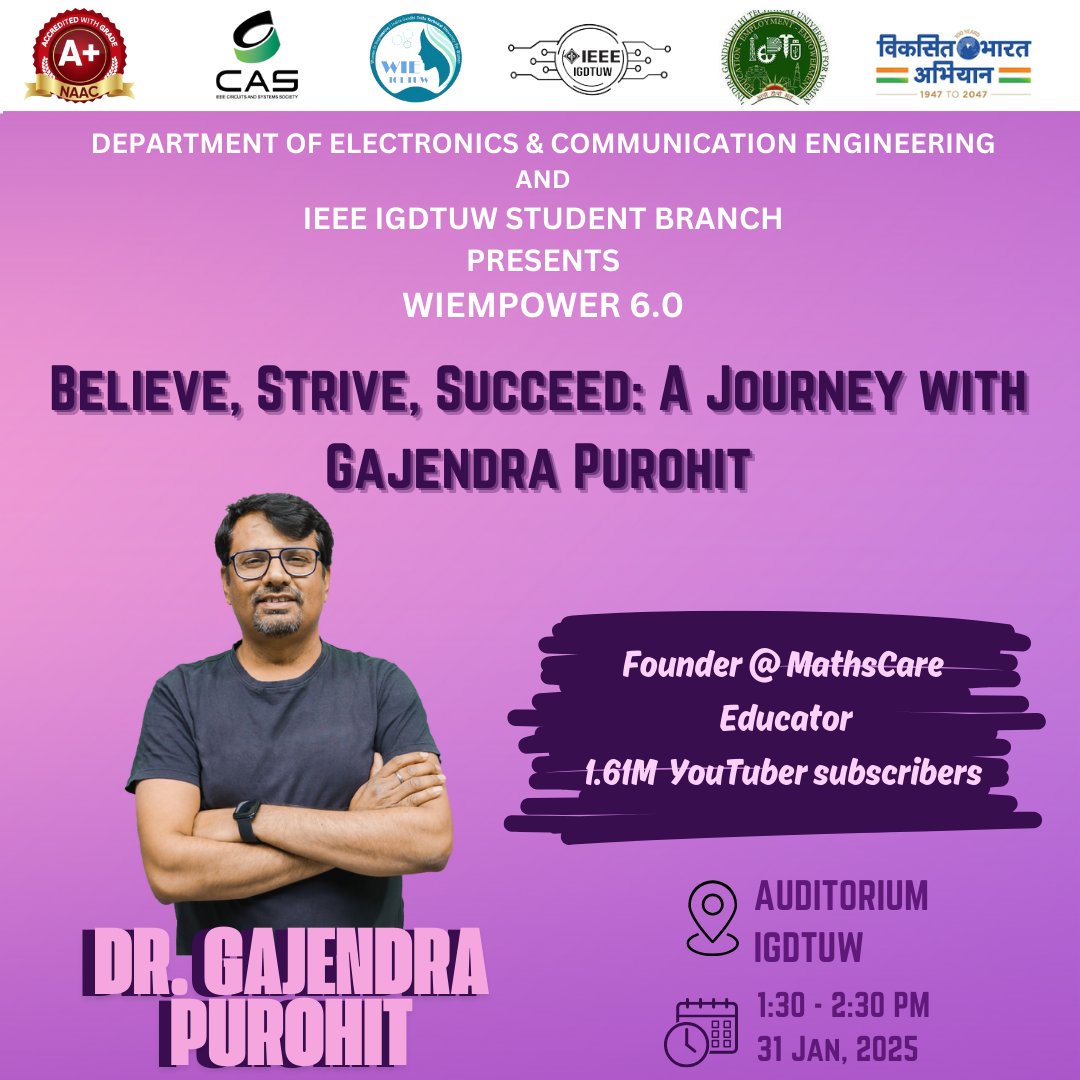
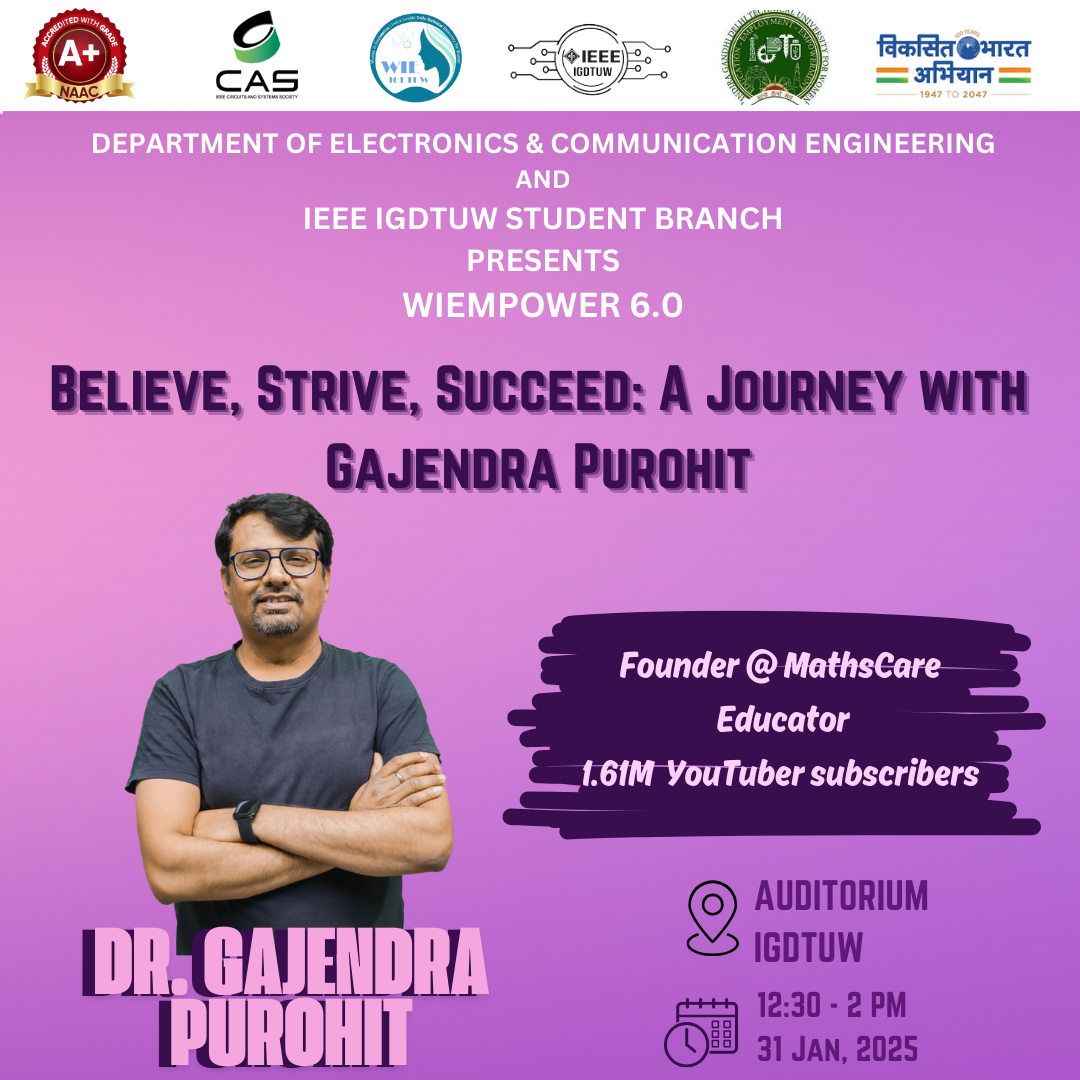
added event

Changed region(s): [[0.4583, 0.5806, 0.9778, 0.7944], [0.7028, 0.9167, 0.8861, 0.9472]]

diff --git a/src/constants/index.ts b/src/constants/index.ts
@@ -436,17 +436,17 @@ export const SPEAKERS = [
     },
   },
 
-  // {
-  //   name: 'Dr.Gajendra Purohit',
-  //   designation: 'Founder, MathsCare | Educator for IIT-JAM, CSIR NET GATE Motivational & TEDx Speaker | YouTuber (1.6M+ Subscribers) Author of 6 Best-Selling Books | Mathematics Expert with 20+ Years of Teaching Experience',
-  //   description: 'Dr. Gajendra Purohit (GP Sir), Founder of MathsCare, is a renowned Educator, TEDx Speaker, and YouTuber with 20+ years of teaching experience. With 1.6M+ YouTube subscribers, he simplifies mathematics for competitive exams like IIT-JAM, CSIR NET, and GATE. A best-selling author of 6 books, he inspires students with his innovative teaching and motivational content.',
-  //   image: speaker6,
-  //   socials: {
-  //     linkedin: 'https://www.linkedin.com/in/dr-gajendra-purohit/',
-  //     Instagram: 'https://www.instagram.com/dr.gajendrapurohit/',
-  //     twitter:'https://x.com/gajendr94838832',
-  //   },
-  // },
+  {
+    name: 'Dr.Gajendra Purohit',
+    designation: 'Founder, MathsCare | Educator for IIT-JAM, CSIR NET GATE Motivational & TEDx Speaker | YouTuber (1.6M+ Subscribers) Author of 6 Best-Selling Books | Mathematics Expert with 20+ Years of Teaching Experience',
+    description: 'Dr. Gajendra Purohit (GP Sir), Founder of MathsCare, is a renowned Educator, TEDx Speaker, and YouTuber with 20+ years of teaching experience. With 1.6M+ YouTube subscribers, he simplifies mathematics for competitive exams like IIT-JAM, CSIR NET, and GATE. A best-selling author of 6 books, he inspires students with his innovative teaching and motivational content.',
+    image: speaker6,
+    socials: {
+      linkedin: 'https://www.linkedin.com/in/dr-gajendra-purohit/',
+      Instagram: 'https://www.instagram.com/dr.gajendrapurohit/',
+      twitter:'https://x.com/gajendr94838832',
+    },
+  },
   {
     name: 'Mr. Ramneek Kalra',
     designation: 'IEEE Impact Creator | Cloud Support Engineer (AWS)',
@@ -537,15 +537,14 @@ export const WIEEVENTS = [
     venue: 'Auditorium, IGDTUW',
     registerLink: 'https://forms.gle/b59JLAR5iCrRECPG6',
   },
-  // {
-  //   eventBanner:banner6,
-  //   date: '31st January 2025',
-  //   title: 'Believe,Strive,Succeed: A Journey With Gajendra Purohit',
-  //   description:"Join us for this amazing session by Dr. Gajendra Purohit (GP Sir), the Founder of MathsCare, a renowned Educator, TEDx Speaker, and YouTuber with 20+ years of teaching experience. With over 1.6M YouTube subscribers, he simplifies mathematics for competitive exams like IIT-JAM, CSIR NET, and GATE. A best-selling author of six books, he continues to inspire students with his innovative teaching and motivational content.",
-  //   time:'1:30 PM - 2:30 PM',
-  //   venue:'Auditorium, IGDTUW',
-  //   registerLink: 'https://docs.google.com/forms/d/e/1FAIpQLSeztFkUeLHfyGV4oyTjkOm0mJV9XSIKhU9_Ue7Te1R1N6H1Aw/viewform', 
-  // },
+  {
+    eventBanner:banner6,
+    date: '31st January 2025',
+    title: 'Believe,Strive,Succeed: A Journey With Gajendra Purohit',
+    description:"Join us for this amazing session by Dr. Gajendra Purohit (GP Sir), the Founder of MathsCare, a renowned Educator, TEDx Speaker, and YouTuber with 20+ years of teaching experience. With over 1.6M YouTube subscribers, he simplifies mathematics for competitive exams like IIT-JAM, CSIR NET, and GATE. A best-selling author of six books, he continues to inspire students with his innovative teaching and motivational content.",
+    time:'12:30 PM - 2:00 PM',
+    venue:'Auditorium, IGDTUW',
+  },
   {
     eventBanner:banner2,
     date: '28th January 2025',

diff --git a/src/app/page.tsx b/src/app/page.tsx
@@ -51,7 +51,6 @@ const Home = () => {
       <Team />
       <Faq />
       <Footer />
-
       <PopUp isOpen={isPopupOpen} onClose={handleClosePopup} />
       <BackToTop/>
     </>
